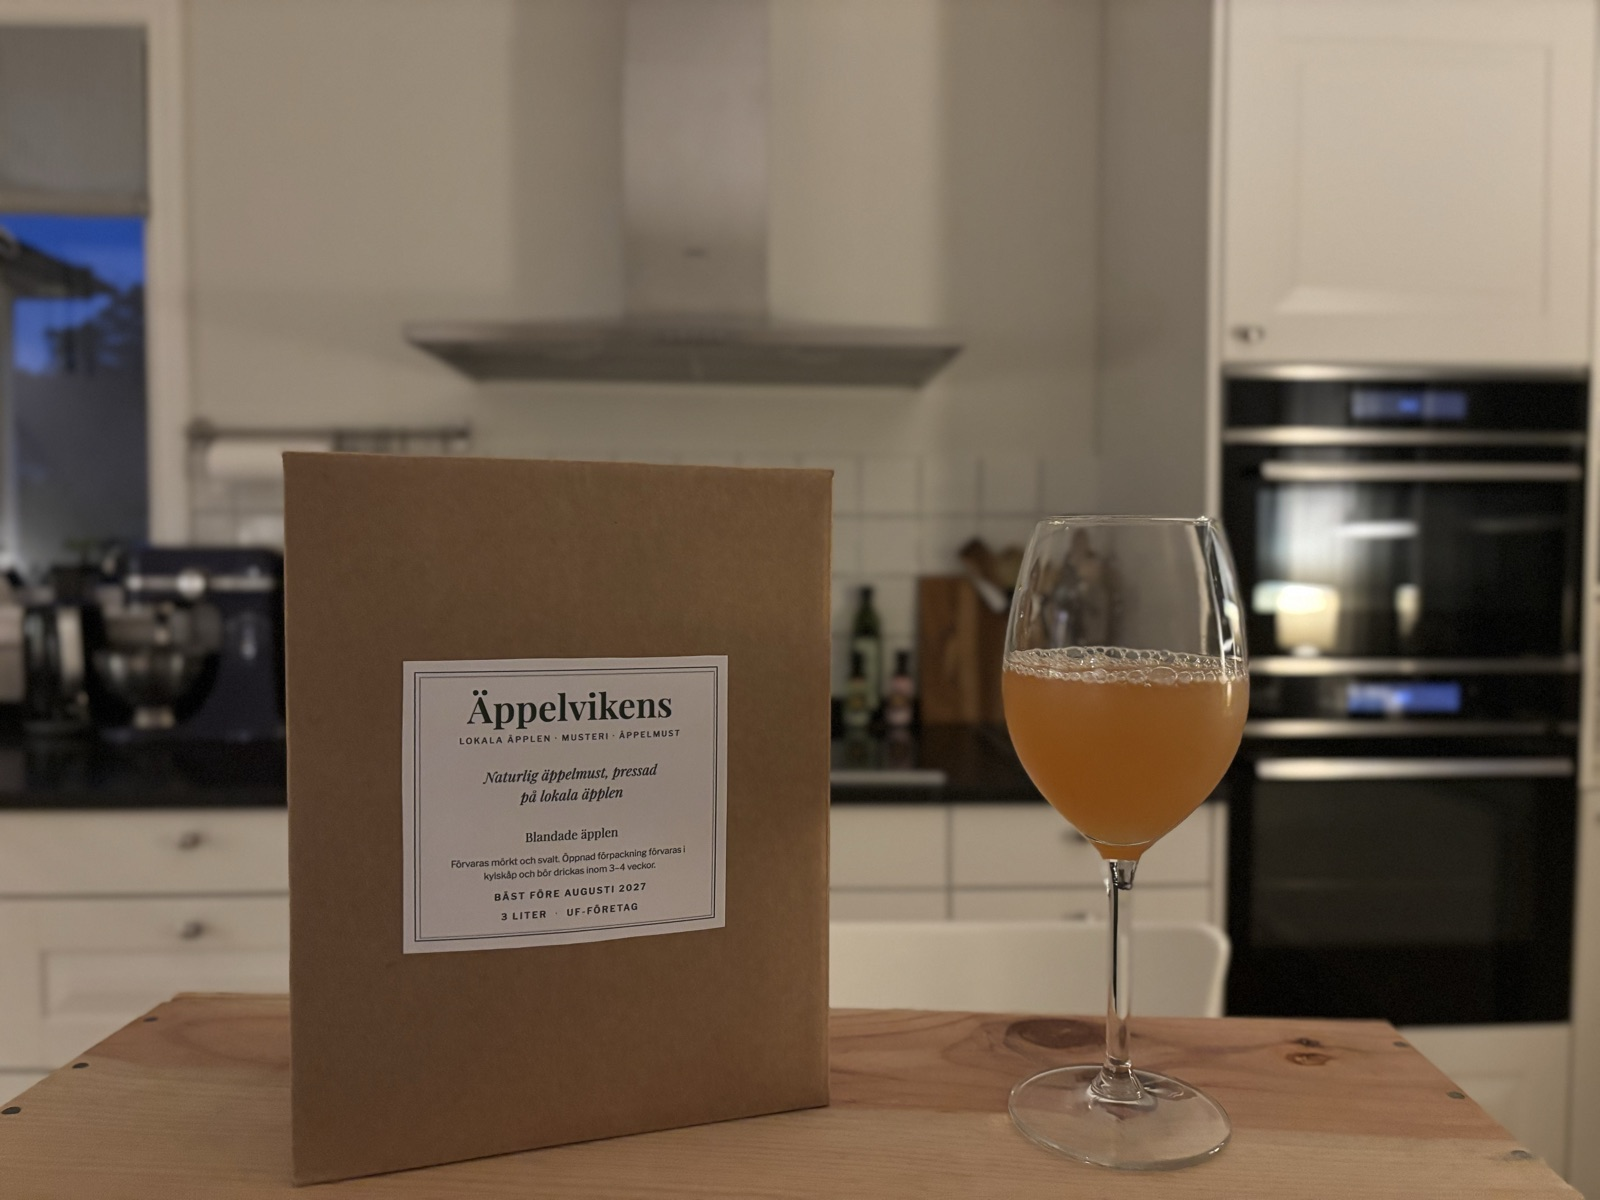
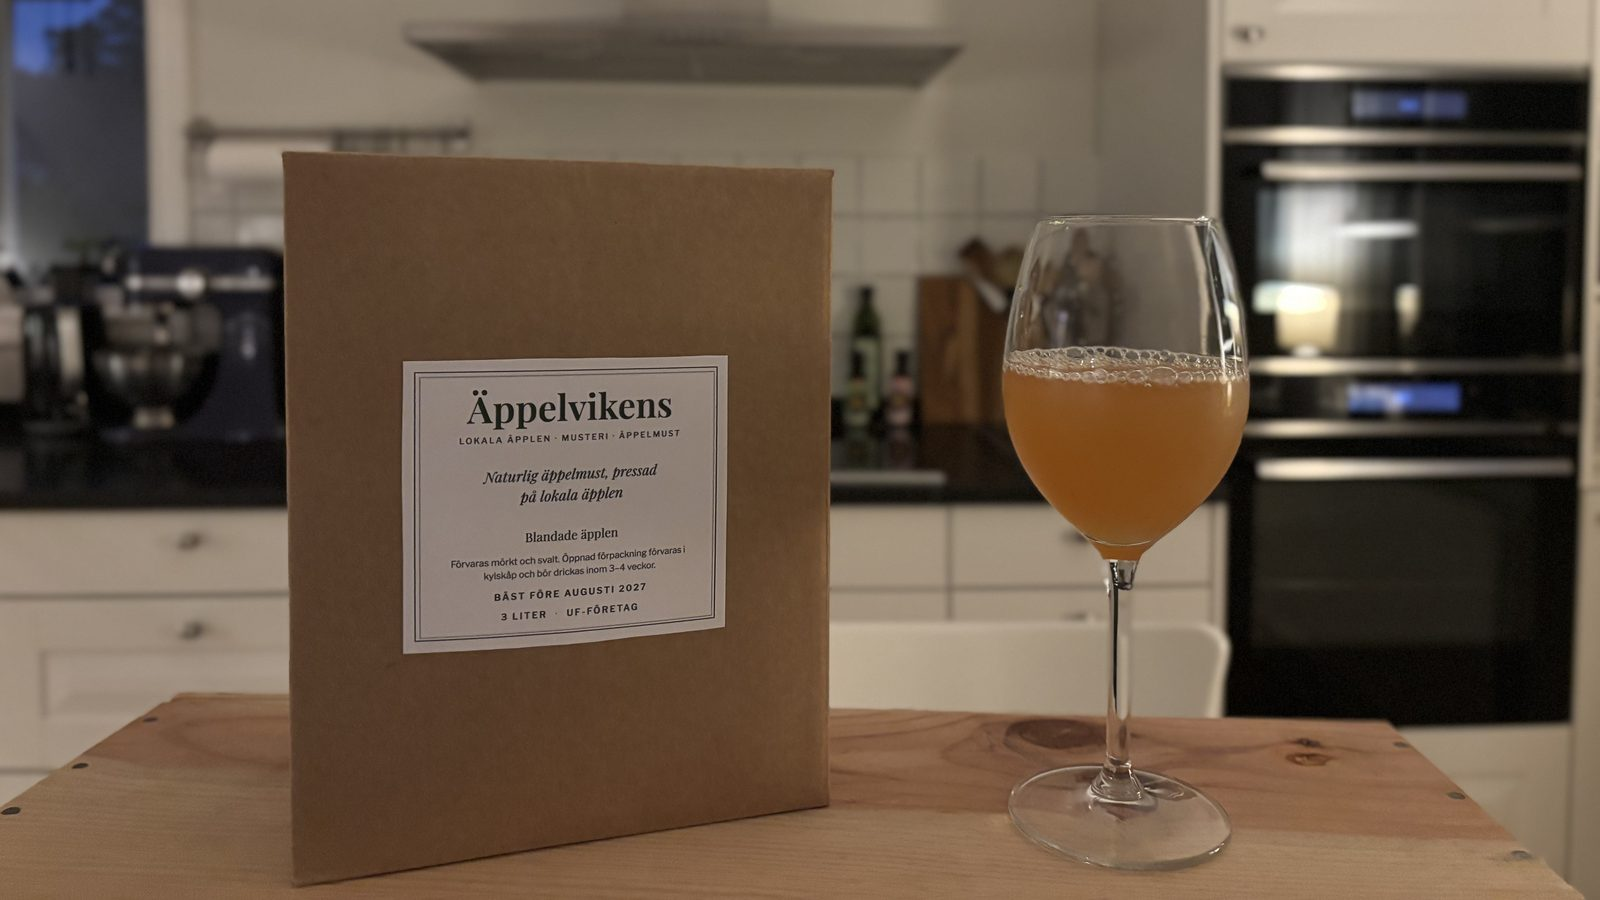
Beskär produktbilden till 16:9

diff --git a/index.html b/index.html
@@ -237,7 +237,7 @@
         <div><strong>3 liter</strong><span class="caps">Per förpackning</span></div>
       </div>
       <figure class="photo wide">
-        <img src="assets/forpackning.jpg" alt="En kartong Äppelvikens äppelmust bredvid ett glas nypressad must på ett köksbord" width="1600" height="1200" loading="lazy">
+        <img src="assets/forpackning.jpg" alt="En kartong Äppelvikens äppelmust bredvid ett glas nypressad must på ett köksbord" width="1600" height="900" loading="lazy">
       </figure>
     </section>
 
